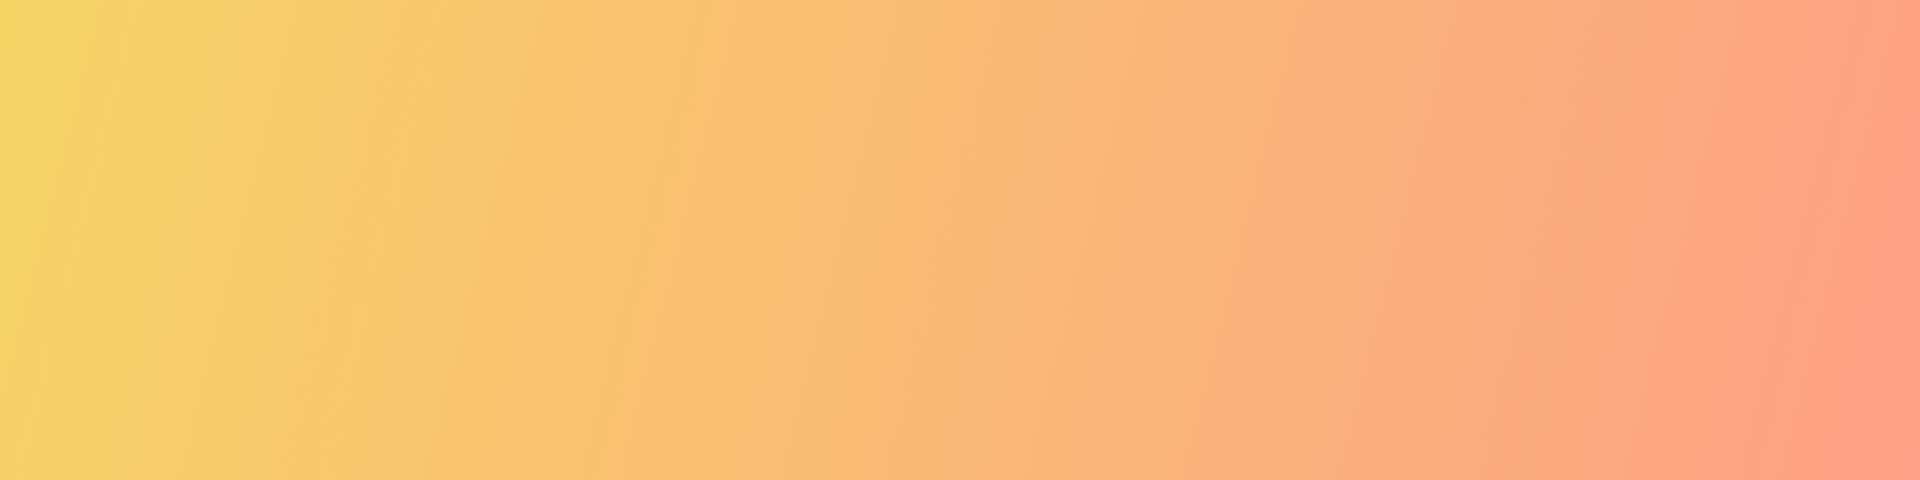
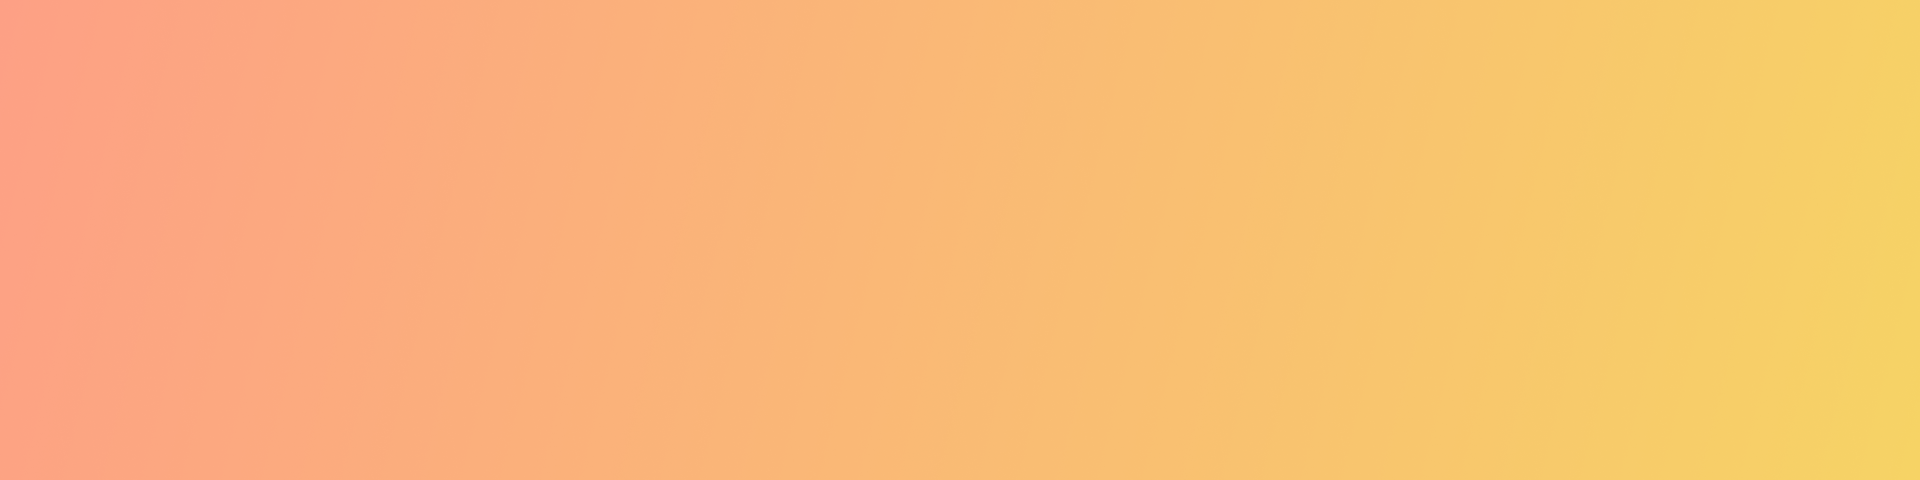
refactor: 重做了市场搜索页面，现在具有跟紧凑且方正的布局

diff --git a/src/Polymerium.App/Properties/Resources.Designer.cs b/src/Polymerium.App/Properties/Resources.Designer.cs
@@ -3669,6 +3669,15 @@ namespace Polymerium.App.Properties {
         }
         
         /// <summary>
+        ///   Looks up a localized string similar to View and download modpacks from various sources. If you need more precise search filters, please search for the modpack on the corresponding website and then enter the name here to install..
+        /// </summary>
+        public static string MarketplaceSearchView_Message {
+            get {
+                return ResourceManager.GetString("MarketplaceSearchView_Message", resourceCulture);
+            }
+        }
+        
+        /// <summary>
         ///   Looks up a localized string similar to {0} has been added to the queue.
         /// </summary>
         public static string MarketplaceSearchView_ModpackInstallingNotificationMessage {
@@ -3692,24 +3701,6 @@ namespace Polymerium.App.Properties {
         public static string MarketplaceSearchView_OpenWebsiteMenuText {
             get {
                 return ResourceManager.GetString("MarketplaceSearchView_OpenWebsiteMenuText", resourceCulture);
-            }
-        }
-        
-        /// <summary>
-        ///   Looks up a localized string similar to Clear Filter.
-        /// </summary>
-        public static string MarketplaceSearchView_ResetFilterButtonText {
-            get {
-                return ResourceManager.GetString("MarketplaceSearchView_ResetFilterButtonText", resourceCulture);
-            }
-        }
-        
-        /// <summary>
-        ///   Looks up a localized string similar to Results:.
-        /// </summary>
-        public static string MarketplaceSearchView_ResultCountLabelText {
-            get {
-                return ResourceManager.GetString("MarketplaceSearchView_ResultCountLabelText", resourceCulture);
             }
         }
         

diff --git a/changelogs/rolling.md b/changelogs/rolling.md
@@ -2,7 +2,7 @@
 
 ### ✨ Highlights ✨
 
--
+- 重做了市场搜索页面，现在具有跟紧凑且方正的布局
 
 ### Fixed
 
@@ -15,6 +15,7 @@
 ### Changed
 
 - 优化实例主页的发射台布局
+- 重做了市场搜索页面，现在具有跟紧凑且方正的布局
 
 ### Removed
 
